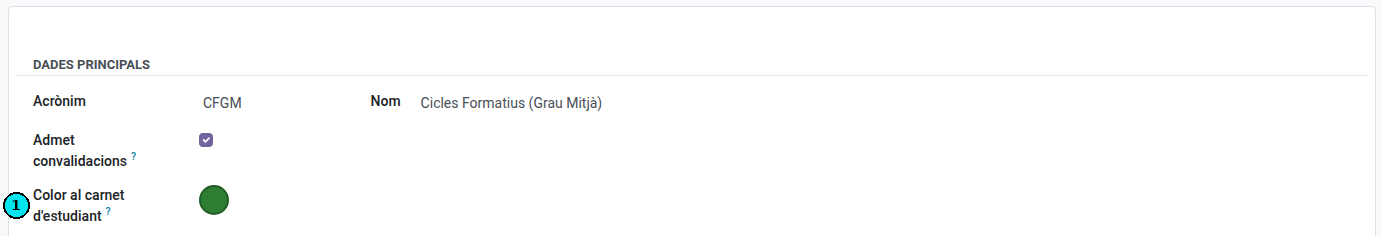
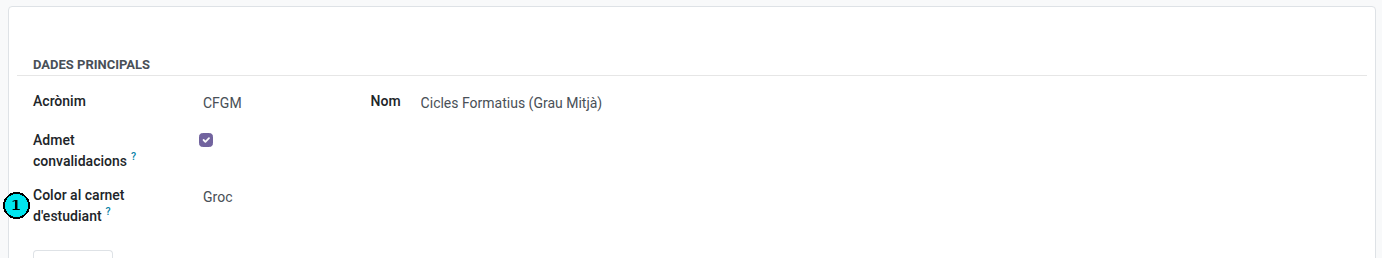
Student card: split band (level / may leave the centre), pastel palette without red or green, modern look

diff --git a/tests/test_student_card.py b/tests/test_student_card.py
@@ -2,6 +2,7 @@ import base64
 
 from dateutil.relativedelta import relativedelta
 
+from odoo.addons.ems.models.curriculum.level import CARD_PALETTE
 from odoo.exceptions import UserError
 from odoo.tests.common import TransactionCase
 
@@ -44,13 +45,13 @@ class TestStudentCard(TransactionCase):
     # --- Level colour ---------------------------------------------------------------------------
 
     def test_official_level_gets_its_palette_colour(self):
-        self.assertEqual(self.env.ref('ems.level_eso').card_color, '#1565C0')
+        self.assertEqual(self.env.ref('ems.level_eso').card_color, 'blue')
 
     def test_other_level_gets_grey_and_keeps_an_edited_colour(self):
-        self.assertEqual(self.level.card_color, '#546E7A')
-        self.level.card_color = '#123456'
+        self.assertEqual(self.level.card_color, 'grey')
+        self.level.card_color = 'cyan'
         self.level.name = 'TSC Renamed Level'
-        self.assertEqual(self.level.card_color, '#123456')
+        self.assertEqual(self.level.card_color, 'cyan')
 
     # --- Who may print --------------------------------------------------------------------------
 
@@ -97,7 +98,7 @@ class TestStudentCard(TransactionCase):
         self.foreign.write({'passport_id': 'XY1234567'})
         html = self._render(self.own_a | self.foreign)
         for expected in ('TSC Alpha Student', '12345678Z', 'XY1234567', self.own_a.student_id,
-                         'TSC', 'TSCO', 'Test TSC Study 1', self.level.card_color,
+                         'TSC', 'TSCO', 'Test TSC Study 1', CARD_PALETTE[self.level.card_color],
                          self.env.company.current_course_id.name or '', 'class="o_ems_card_barcode"'):
             self.assertIn(expected, html)
 
@@ -138,7 +139,7 @@ class TestStudentCard(TransactionCase):
         self.own_a.main_group_id = False
         html = self._render(self.own_a)
         self.assertIn('TSC Alpha Student', html)
-        self.assertIn('background: #546E7A', html)
+        self.assertIn(f"background: {CARD_PALETTE['grey']}", html)
 
     # --- May the student leave the centre -------------------------------------------------------
 
@@ -159,12 +160,12 @@ class TestStudentCard(TransactionCase):
     def test_minor_without_authorization_may_not_leave(self):
         self.own_a.birth_date = self._birth_date(15)
         self.assertFalse(self.own_a.can_leave_centre)
-        self.assertIn('class="o_ems_card_exit o_ems_card_exit_no"', self._render(self.own_a))
+        self.assertIn('o_ems_card_exit o_ems_card_exit_no"', self._render(self.own_a))
 
     def test_adult_may_leave_without_authorization(self):
         self.own_a.birth_date = self._birth_date(18)
         self.assertTrue(self.own_a.can_leave_centre)
-        self.assertIn('class="o_ems_card_exit o_ems_card_exit_yes"', self._render(self.own_a))
+        self.assertIn('o_ems_card_exit o_ems_card_exit_yes"', self._render(self.own_a))
 
     def test_minor_may_leave_only_with_the_authorization_accepted(self):
         self.own_a.birth_date = self._birth_date(15)

diff --git a/models/curriculum/level.py b/models/curriculum/level.py
@@ -2,17 +2,28 @@
 
 from odoo import api, fields, models
 
-# Dark enough for white text, and far apart from each other so two levels are never mixed up.
-CARD_COLORS = {
-	'ESO': '#1565C0',
-	'BTX': '#6A1B9A',
-	'CFGB': '#EF6C00',
-	'CFGM': '#2E7D32',
-	'CFGS': '#C62828',
-	'EFPS': '#00838F',
-	'PFI': '#795548',
+# The student card's level colours: pastel, so the card is not garish, and never red or green, which
+# the card keeps for "may / may not leave the centre". A closed palette, so no level can pick them.
+CARD_PALETTE = {
+	'blue': '#BBDEFB',
+	'lavender': '#D1C4E9',
+	'peach': '#FFE0B2',
+	'yellow': '#FFF3B0',
+	'cyan': '#B2EBF2',
+	'sand': '#E6D5C3',
+	'orchid': '#E1BEE7',
+	'grey': '#CFD8DC',
 }
-DEFAULT_CARD_COLOR = '#546E7A'
+CARD_COLORS = {
+	'ESO': 'blue',
+	'BTX': 'lavender',
+	'CFGB': 'peach',
+	'CFGM': 'yellow',
+	'CFGS': 'cyan',
+	'EFPS': 'sand',
+	'PFI': 'orchid',
+}
+DEFAULT_CARD_COLOR = 'grey'
 
 
 class EmsLevel(models.Model):
@@ -32,11 +43,21 @@ class EmsLevel(models.Model):
 	allows_convalidation = fields.Boolean(string="Allows convalidations", default=False,
 		help="Students of this level's studies can request subject convalidations.")
 
-	# The level band's colour on the student card (issue #524), which the teacher at the door reads
-	# to let a student out at break time. Computed from the acronym only when the level is created,
-	# then the centre's to change: not in data/cat/ems.level.csv, so an upgrade never reverts it.
-	card_color = fields.Char(string="Student card colour", compute="_compute_card_color", store=True,
-		readonly=False, help="Colour of this level's band on the student card.")
+	# The level's colour on the student card (issue #524). Computed from the acronym only when the
+	# level is created, then the centre's to change: not in data/cat/ems.level.csv, so an upgrade
+	# never reverts it.
+	card_color = fields.Selection([
+		('blue', "Blue"),
+		('lavender', "Lavender"),
+		('peach', "Peach"),
+		('yellow', "Yellow"),
+		('cyan', "Cyan"),
+		('sand', "Sand"),
+		('orchid', "Orchid"),
+		('grey', "Grey"),
+	], string="Student card colour", compute="_compute_card_color", store=True, readonly=False,
+		help="Colour of this level on the student card. Red and green are not offered: the card "
+		     "uses them to say whether the student may leave the centre.")
 
 	notes = fields.Text(string="Notes")
 

diff --git a/models/contacts/student_card.py b/models/contacts/student_card.py
@@ -3,7 +3,7 @@
 from odoo import _, api, fields, models
 from odoo.exceptions import UserError
 
-from ..curriculum.level import DEFAULT_CARD_COLOR
+from ..curriculum.level import CARD_PALETTE, DEFAULT_CARD_COLOR
 
 
 class ResPartner(models.Model):
@@ -53,7 +53,7 @@ class ResPartner(models.Model):
             'document': self.document_id or self.passport_id,
             'level': level,
             # A student without a main group still gets a band, in the colour of a level without one.
-            'color': level.card_color or DEFAULT_CARD_COLOR,
+            'color': CARD_PALETTE[level.card_color or DEFAULT_CARD_COLOR],
             'study': ' '.join(filter(None, (group.study_id.name, str(group.course or '')))),
         }
 

diff --git a/docs/en/developers/contacts/student_card.md b/docs/en/developers/contacts/student_card.md
@@ -11,11 +11,10 @@ card shows:
   frame with its proportions kept, since wkhtmltopdf ignores `object-fit`), "Last names, First name",
   identity document (`document_id`, or `passport_id` when there is none), birth date and IDALU
   (`student_id`).
-- The **level band**: the main group's level acronym (ESO, BTX, CFGB, CFGM, CFGS, PFI, EFPS) in big
-  letters on that level's own colour, plus the study and the course year ("Gestió Administrativa ·
-  1r").
-- Whether the student **may leave the centre** (`can_leave_centre`): a green "Pot sortir del centre"
-  or a red "No pot sortir del centre" above the stamp, for the teacher at the door. The student may
+- The **band**, two rounded blocks side by side. On the left, the main group's level acronym (ESO,
+  BTX, CFGB, CFGM, CFGS, PFI, EFPS) in big letters on that level's own colour, plus the study and the
+  course year. On the right, whether the student **may leave the centre** (`can_leave_centre`), for
+  the teacher at the door: "Pot sortir del centre" on green or "No pot sortir del centre" on red. The student may
   leave when they are of age (`is_adult`) **or** the family accepted an authorization whose template
   is of type *Leave the Centre* (`auth_leave`) for the academic year in force. Computed when the
   card is printed: a card printed before the student turns 18, or before the family accepts, keeps
@@ -43,7 +42,7 @@ flowchart LR
 
 | Model | Field / method | Notes |
 |---|---|---|
-| `ems.level` | `card_color` (Char, stored compute, `readonly=False`) | The level band's colour (hex). Computed from the acronym when the level is created (a fixed palette for the official levels, grey for any other) and editable afterwards in the level form (`widget="color"`). Not in `data/cat/ems.level.csv`, so an upgrade never reverts a colour the centre changed. |
+| `ems.level` | `card_color` (Selection, stored compute, `readonly=False`) | The level's colour on the card, one of a closed pastel palette (`CARD_PALETTE` in `models/curriculum/level.py`, key → hex). The palette has no red or green, which the card keeps for the exit block, so no level can be confused with it. Computed from the acronym when the level is created (`CARD_COLORS` for the official levels, grey for any other) and editable afterwards in the level form. Not in `data/cat/ems.level.csv`, so an upgrade never reverts a colour the centre changed. |
 | `res.company` | `ems_card_stamp` (Image) | The centre's stamp, uploaded in Settings > EMS > Center Data. |
 | `res.config.settings` | `ems_card_stamp` (related) | |
 | `res.partner` | `can_print_student_card` (Boolean, non-stored, `depends_context('uid')`) | Reads the Actions dropdown entry's `invisible=`. |
@@ -73,7 +72,10 @@ group the user isn't the tutor of, never prints a card the user could not print 
 - Paper format `ems.paperformat_student_card`: A4 portrait, small margins, no header/footer
   (`web.basic_layout`, not `external_layout`).
 - Cards are laid out with a table (two cells per row), not flexbox or grid: wkhtmltopdf's WebKit
-  lays neither out. Each row has `page-break-inside: avoid`, so a card is never split across two
+  lays neither out. The band's two blocks are one table with `border-collapse: separate` and a
+  horizontal `border-spacing`, each cell with its own `border-radius`.
+- Soft colours throughout: pastel backgrounds with dark text (the level and exit blocks), grey labels.
+  The report layout borders tables, rows and cells; the card's stylesheet resets all of them. Each row has `page-break-inside: avoid`, so a card is never split across two
   sheets.
 - Double-sided printing: each sheet of fronts (up to ten cards) is followed by its sheet of backs,
   flipped on the long edge. A back row lists its cards right to left, so an odd last card's back

diff --git a/changelog/524-student-card.md b/changelog/524-student-card.md
@@ -4,8 +4,9 @@
 
 - New "Print student card" on the students list (selection), on a student's form and, as "Print student cards", on a group's form (every student whose main group it is). Each card is CR80-sized (85.6 x 54 mm, fits the usual card holders), ten per A4 sheet in two columns, cut by hand.
 - Every card shows the centre (logo, name, address, phone), the academic year in force, the student's photo (scaled to fit without distorting it, a silhouette when missing), name, identity document (DNI/NIE, or passport), birth date and IDALU, plus a Code128 barcode of the IDALU for a future check-in at the entrance.
-- A big coloured band with the main group's level (ESO, BTX, CFGB, CFGM, CFGS, PFI, EFPS) and its study and course. Each level has its own colour (new "Student card colour" on the level, preset for the official levels and editable).
-- Whether the student may leave the centre, for the teacher at the door: "Pot sortir del centre" (green) when the student is of age or the family accepted the "Leave the Centre" authorization for the academic year in force, "No pot sortir del centre" (red) otherwise. Worked out when the card is printed.
+- A band split in two rounded blocks. On the left, the main group's level (ESO, BTX, CFGB, CFGM, CFGS, PFI, EFPS) in big letters with its study and course, on the level's own soft colour (new "Student card colour" on the level: a closed pastel palette without red or green, preset for the official levels and editable).
+- On the right, whether the student may leave the centre, for the teacher at the door: "Pot sortir del centre" on green when the student is of age or the family accepted the "Leave the Centre" authorization for the academic year in force, "No pot sortir del centre" on red otherwise. Worked out when the card is printed.
+- A modern, soft look: pastel colours with dark text, grey labels, rounded photo and blocks.
 - A back side for double-sided printing (each sheet of fronts followed by its sheet of backs, mirrored so every back lands behind its front): the Departament d'Educació i Formació Professional's logo, the centre's details and a "personal and non-transferable" note.
 - The centre's stamp is uploaded once in Settings (EMS > Center Data > "Student card stamp") and printed on every card; without it the card leaves an empty box to stamp by hand.
 - Printing follows the student's other actions: Academic admin, Secretary and Head of Studies print any student's card, a tutor (and the chiefs above them) only their own students'.

diff --git a/docs/es/secretary/student-card.md b/docs/es/secretary/student-card.md
@@ -17,8 +17,8 @@ EMS genera el carné de estudiante en un PDF listo para imprimir y recortar.
 **Anverso:**
 
 - El logotipo, el nombre, la dirección y el teléfono del centro, y el curso académico actual.
-- Una franja de color con el nivel del alumno en grande (ESO, BTX, CFGB, CFGM, CFGS, PFI, EFPS), el estudio y el curso. Cada nivel tiene su color.
-- Si el alumno puede salir del centro, para el profesorado de la puerta: **Pot sortir del centre** (en verde) cuando el alumno es mayor de edad o la familia ha aceptado la autorización *Salir del centro* de este curso, y **No pot sortir del centre** (en rojo) en caso contrario. Se decide en el momento de imprimir el carné: si el alumno cumple 18 años o la familia acepta la autorización más tarde, vuelve a imprimirlo.
+- Una franja partida en dos. A la izquierda, el nivel del alumno en grande (ESO, BTX, CFGB, CFGM, CFGS, PFI, EFPS), el estudio y el curso, en el color del nivel.
+- A la derecha, si el alumno puede salir del centro, para el profesorado de la puerta: **Pot sortir del centre** (en verde) cuando el alumno es mayor de edad o la familia ha aceptado la autorización *Salir del centro* de este curso, y **No pot sortir del centre** (en rojo) en caso contrario. Se decide en el momento de imprimir el carné: si el alumno cumple 18 años o la familia acepta la autorización más tarde, vuelve a imprimirlo.
 - La foto, los apellidos y el nombre, el documento de identidad (DNI o NIE, o el pasaporte si no tiene), la fecha de nacimiento y el IDALU, con su código de barras.
 - El sello del centro. Si la administración aún no lo ha subido, sale un recuadro en blanco para sellarlo a mano.
 

diff --git a/docs/ca/secretary/student-card.md b/docs/ca/secretary/student-card.md
@@ -17,8 +17,8 @@ L'EMS genera el carnet d'estudiant en un PDF llest per imprimir i retallar.
 **Anvers:**
 
 - El logotip, el nom, l'adreça i el telèfon del centre, i el curs acadèmic actual.
-- Una franja de color amb el nivell de l'alumne en gran (ESO, BTX, CFGB, CFGM, CFGS, PFI, EFPS), l'estudi i el curs. Cada nivell té el seu color.
-- Si l'alumne pot sortir del centre, per al professorat de la porta: **Pot sortir del centre** (en verd) quan l'alumne és major d'edat o la família ha acceptat l'autorització *Sortir del centre* d'aquest curs, i **No pot sortir del centre** (en vermell) en cas contrari. Es decideix en el moment d'imprimir el carnet: si l'alumne fa 18 anys o la família accepta l'autorització més tard, torna a imprimir-lo.
+- Una franja partida en dues. A l'esquerra, el nivell de l'alumne en gran (ESO, BTX, CFGB, CFGM, CFGS, PFI, EFPS), l'estudi i el curs, en el color del nivell.
+- A la dreta, si l'alumne pot sortir del centre, per al professorat de la porta: **Pot sortir del centre** (en verd) quan l'alumne és major d'edat o la família ha acceptat l'autorització *Sortir del centre* d'aquest curs, i **No pot sortir del centre** (en vermell) en cas contrari. Es decideix en el moment d'imprimir el carnet: si l'alumne fa 18 anys o la família accepta l'autorització més tard, torna a imprimir-lo.
 - La foto, els cognoms i el nom, el document d'identitat (DNI o NIE, o el passaport si no en té), la data de naixement i l'IDALU, amb el codi de barres corresponent.
 - El segell del centre. Si l'administració encara no l'ha pujat, hi surt un requadre en blanc per segellar-lo a mà.
 

diff --git a/docs/en/secretary/student-card.md b/docs/en/secretary/student-card.md
@@ -17,8 +17,8 @@ EMS generates the student card as a PDF ready to print and cut.
 **Front:**
 
 - The centre's logo, name, address and phone, and the current academic year.
-- A coloured band with the student's level in big letters (ESO, BTX, CFGB, CFGM, CFGS, PFI, EFPS), the study and the course year. Each level has its own colour.
-- Whether the student may leave the centre, for the teacher at the door: **Pot sortir del centre** (green) when the student is of age or the family has accepted the *Leave the Centre* authorization for this academic year, **No pot sortir del centre** (red) otherwise. It is worked out when the card is printed: if the student turns 18 or the family accepts the authorization later, print the card again.
+- A band split in two. On the left, the student's level in big letters (ESO, BTX, CFGB, CFGM, CFGS, PFI, EFPS), the study and the course year, in the level's own colour.
+- On the right, whether the student may leave the centre, for the teacher at the door: **Pot sortir del centre** (green) when the student is of age or the family has accepted the *Leave the Centre* authorization for this academic year, **No pot sortir del centre** (red) otherwise. It is worked out when the card is printed: if the student turns 18 or the family accepts the authorization later, print the card again.
 - The photo, last names and first name, identity document (DNI or NIE, or the passport when there is none), birth date and IDALU, with its barcode.
 - The centre's stamp. Until the administrator uploads it, an empty box is printed instead, to stamp by hand.
 

diff --git a/docs/es/admin/student-card-settings.md b/docs/es/admin/student-card-settings.md
@@ -24,15 +24,15 @@ Usa una imagen PNG con el fondo transparente, para que el sello no tape el resto
 
 ## Cambiar el color de un nivel
 
-Cada nivel sale en el carné en una franja de su color. Los niveles oficiales ya tienen uno asignado: ESO azul, BTX lila, CFGB naranja, CFGM verde, CFGS rojo, EFPS turquesa y PFI marrón. Un nivel nuevo sale en gris hasta que le elijas uno.
+Cada nivel sale en el carné en un recuadro de un color suave propio. Los niveles oficiales ya tienen uno asignado: ESO azul, BTX lavanda, CFGB melocotón, CFGM amarillo, CFGS cian, EFPS arena y PFI orquídea. Un nivel nuevo sale en gris hasta que le elijas uno.
 
 1. Ve a **Comunidad educativa → Configuración → Currículum → Niveles** y abre el nivel.
-2. Pulsa **Color en el carné de estudiante** y elige el color.
+2. En **Color en el carné de estudiante**, elige uno de los colores de la lista.
 3. Guarda.
 
 ![Color en el carné de estudiante en la ficha del nivel](../../assets/admin/student-card-level-colour.png)
 
-Elige un color oscuro, para que las letras blancas de la franja se lean bien, y bastante distinto del de los demás niveles.
+Elige uno bastante distinto del de los demás niveles. El rojo y el verde no están: el carné los usa para indicar si el alumno puede salir del centro.
 
 ---
 

diff --git a/docs/ca/admin/student-card-settings.md b/docs/ca/admin/student-card-settings.md
@@ -24,15 +24,15 @@ Fes servir una imatge PNG amb el fons transparent, perquè el segell no tapi la 
 
 ## Canviar el color d'un nivell
 
-Cada nivell surt al carnet en una franja del seu color. Els nivells oficials ja en tenen un d'assignat: ESO blau, BTX lila, CFGB taronja, CFGM verd, CFGS vermell, EFPS turquesa i PFI marró. Un nivell nou surt en gris fins que no li'n triïs un.
+Cada nivell surt al carnet en un requadre d'un color suau propi. Els nivells oficials ja en tenen un d'assignat: ESO blau, BTX lavanda, CFGB préssec, CFGM groc, CFGS cian, EFPS sorra i PFI orquídia. Un nivell nou surt en gris fins que no li'n triïs un.
 
 1. Ves a **Comunitat Educativa → Configuració → Currículum → Nivells** i obre el nivell.
-2. Clica **Color al carnet d'estudiant** i tria el color.
+2. A **Color al carnet d'estudiant**, tria un dels colors de la llista.
 3. Desa.
 
 ![Color al carnet d'estudiant a la fitxa del nivell](../../assets/admin/student-card-level-colour.png)
 
-Tria un color fosc, perquè les lletres blanques de la franja es llegeixin bé, i prou diferent dels altres nivells.
+Tria'n un de prou diferent dels altres nivells. El vermell i el verd no hi són: el carnet els fa servir per indicar si l'alumne pot sortir del centre.
 
 ---
 

diff --git a/docs/en/admin/student-card-settings.md b/docs/en/admin/student-card-settings.md
@@ -24,15 +24,15 @@ Use a PNG image with a transparent background, so the stamp doesn't cover the re
 
 ## Changing a level's colour
 
-Each level is shown on the card in a band of its own colour. The official levels already have one: ESO blue, BTX purple, CFGB orange, CFGM green, CFGS red, EFPS teal and PFI brown. A new level is grey until you pick one.
+Each level is shown on the card in a block of its own soft colour. The official levels already have one: ESO blue, BTX lavender, CFGB peach, CFGM yellow, CFGS cyan, EFPS sand and PFI orchid. A new level is grey until you pick one.
 
 1. Go to **Educational Community → Configuration → Curriculum → Levels** and open the level.
-2. Click **Student card colour** and pick the colour.
+2. In **Student card colour**, pick one of the colours on the list.
 3. Save.
 
 ![Student card colour on the level's form](../../assets/admin/student-card-level-colour.png)
 
-Pick a dark colour, so the band's white letters are easy to read, and one clearly different from the other levels'.
+Pick one clearly different from the other levels'. Red and green are not on the list: the card uses them to show whether the student may leave the centre.
 
 ---
 
